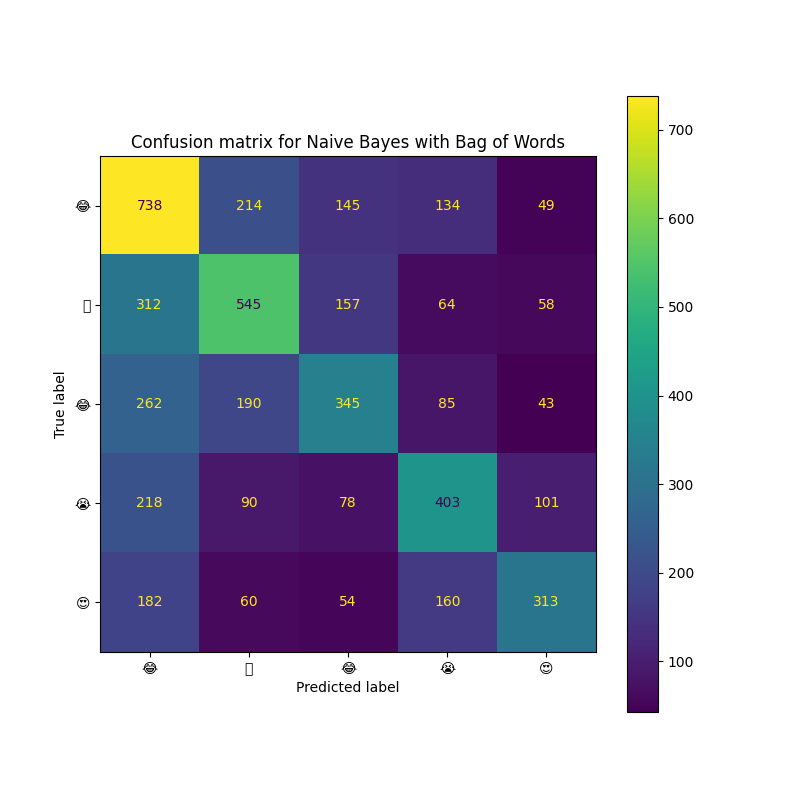
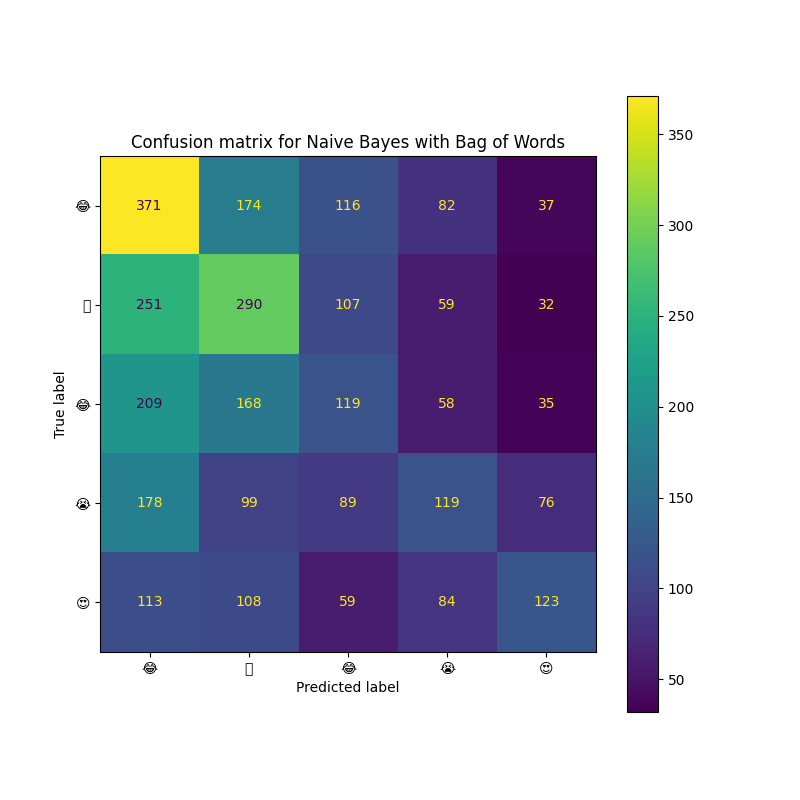
Added kNN with word2vec

diff --git a/data_processing/classifiers.py b/data_processing/classifiers.py
@@ -7,28 +7,34 @@ from sklearn.linear_model import LogisticRegression
 test_dataset_name = 'datasets/data/test_data_five_emojis.csv'
 
 bow_nb_model_filepath = 'classifier_models/demo/bow_nb.pkl'
+bow_nb_ngrams_model_filepath = 'classifier_models/demo/bow_nb_ngrams.pkl'
 bow_knn_model_filepath = 'classifier_models/demo/bow_knn.pkl'
 bow_random_forest_model_filepath = 'classifier_models/demo/bow_random_forest.pkl'
 bow_svm_model_filepath = 'classifier_models/demo/bow_svm.pkl'
+
 count_vectorizer_filepath = 'classifier_models/demo/count_vectorizer.pkl'
+count_vectorizer_ngrams_filepath = 'classifier_models/demo/count_vectorizer_ngrams.pkl'
 
 tfidf_nb_model_filepath = 'classifier_models/demo/tfidf_nb.pkl'
+tfidf_nb_ngrams_filepath = 'classifier_models/demo/tfidf_nb_ngrams.pkl'
 tfidf_knn_model_filepath = 'classifier_models/demo/tfidf_knn.pkl'
 tfidf_random_forest_model_filepath = 'classifier_models/demo/tfidf_random_forest.pkl'
 tfidf_svm_model_filepath = 'classifier_models/demo/tfidf_svm.pkl'
+
 tfidf_vectorizer_filepath = 'classifier_models/demo/tfidf_vectorizer.pkl'
+tfidf_vectorizer_ngrams_filepath = 'classifier_models/demo/tfidf_vectorizer_ngrams.pkl'
 
 word2vec_nb_model_filepath = 'classifier_models/demo/word2vec_nb.pkl'
 word2vec_lg_model_filepath = 'classifier_models/demo/word2vec_lg.pkl'
 word2vec_model_filepath = 'classifier_models/demo/word2vec.pkl'
 
 def train_bow_and_nb():
-    vectorizer = CountVectorizer()
+    vectorizer = CountVectorizer(ngram_range=(1,2))
     clf = processing_data.train_model_NB(vectorizer)
-    processing_data.save_trained_model(clf, bow_nb_model_filepath, vectorizer, count_vectorizer_filepath)
+    processing_data.save_trained_model(clf, bow_nb_ngrams_model_filepath, vectorizer, count_vectorizer_ngrams_filepath)
 
 def test_bow_and_nb():
-    model, vectorizer = processing_data.load_trained_model(bow_nb_model_filepath, count_vectorizer_filepath)
+    model, vectorizer = processing_data.load_trained_model(bow_nb_ngrams_model_filepath, count_vectorizer_ngrams_filepath)
     processing_data.calculate_accuracy(model, vectorizer, test_dataset_name)
 
 def test_bow_and_nb_cli(input: str):
@@ -38,12 +44,12 @@ def test_bow_and_nb_cli(input: str):
 
 
 def train_tfidf_and_nb():
-    vectorizer = TfidfVectorizer()
+    vectorizer = TfidfVectorizer(ngram_range=(1,2))
     clf = processing_data.train_model_NB(vectorizer)
-    processing_data.save_trained_model(clf, tfidf_nb_model_filepath, vectorizer, tfidf_vectorizer_filepath)
+    processing_data.save_trained_model(clf, tfidf_nb_ngrams_filepath, vectorizer, tfidf_vectorizer_ngrams_filepath)
 
 def test_tfidf_and_nb():
-    model, vectorizer = processing_data.load_trained_model(tfidf_nb_model_filepath, tfidf_vectorizer_filepath)
+    model, vectorizer = processing_data.load_trained_model(tfidf_nb_ngrams_filepath, tfidf_vectorizer_ngrams_filepath)
     processing_data.calculate_accuracy(model, vectorizer, test_dataset_name)
 
 def test_tfidf_and_nb_cli(input: str):
@@ -217,6 +223,7 @@ def tfidf_and_svm():
 # print()
 
 # train_word2vec_and_nb()
+# train_word2vec_and_knn()
 # test_word2vec_and_nb()
 
 # to make precision recall table uncomment
@@ -237,8 +244,12 @@ def tfidf_and_svm():
 
 # print("TFIDF nad Rforest")
 # test_tfidf_and_random_forest()
+<<<<<<< HEAD
 
 # train_word2vec_and_lg()
 # test_word2vec_and_lg()
 
 train_word2vec_and_lg()
+=======
+    
+>>>>>>> aee383b (Added kNN with word2vec)

diff --git a/data_processing/processing_data.py b/data_processing/processing_data.py
@@ -27,9 +27,11 @@ nltk.download('wordnet', quiet=True)
 from nltk.corpus import stopwords
 nltk.download('stopwords', quiet=True)
 
+all_dataset_name = 'datasets/data/tweets_with_five_emojis.csv'
 train_dataset_name = 'datasets/data/train_data_five_emojis.csv'
 dataset_name = 'datasets/data/tweets_with_five_emojis.csv'
 
+all_data_dictionary_filepath = 'datasets/in-progress-data/all-dictionary.dict'
 train_data_dictionary_filepath = 'datasets/in-progress-data/dictionary.dict'
 test_data_dictionary_filepath = 'datasets/in-progress-data/test-dictionary.dict'
 
@@ -147,7 +149,7 @@ def train_model_random_forest(vectorizer):
 
 
 def train_model_word2vec():
-    df = create_dataframe(dataset_name, train_data_dictionary_filepath)
+    df = create_dataframe(all_dataset_name, all_data_dictionary_filepath)
     nlp = [nltk.word_tokenize(i) for i in df['tweets']]
     model = gensim.models.Word2Vec(nlp, min_count=1, vector_size=100, window=5)
 
@@ -253,20 +255,11 @@ def save_confussion_matrix(target_values, predicted_values):
 
     # Display the plot
     cm_display.plot(ax=ax)
-    ax.set_title("Confusion matrix for Naive Bayes with Bag of Words")
+    ax.set_title("Confusion matrix for Naive Bayes with Bag of Words with n-grams")
     plt.show()
 
     # Save the plot
     fig.savefig("confusion_matrix.png")
-
-
-# def w2v_calculate_accuracy(clf: ClassifierMixin, w2v_model: gensim.Word2Vec, dataset_filename: str):
-#     df = create_dataframe(dataset_filename, test_data_dictionary_filepath)
-    # doc_term_df = test_data_vectorize(df, vectorizer=vectorizer)
-#     target_values = df.emojis.astype(int)
-
-#     predicted_emojis = clf.predict(doc_term_df)
-#     print("Accuracy: ", accuracy_score(target_values, predicted_emojis))
 
 
 def predict_emoji_cli(clf: ClassifierMixin, vectorizer, text: str):

diff --git a/data_processing/word2vec.py b/data_processing/word2vec.py
@@ -103,7 +103,6 @@ def max_cosine_similarity(input: str):
 # save_embedding()
 # max_cosine_similarity("I love you")
 
-
 # suggest_emoji_max_jaccard_similarity("I love you")
 # print()
 # suggest_emoji_average_jaccard_similarity("I love you")

diff --git a/results.md b/results.md
@@ -7,11 +7,17 @@
 |   Vectorizer  |  Classifier    |   Accuracy    |  Precision   |   Recall   |  F1-score   |    😭    |    😂     |   😤     |    🥹    |    😍    |
 | :-----------: | :-----------:  | :-----------: | :----------: | :--------: | :---------: | :------: | :------: | :------: | :------: | :------: |
 |  Bag of Words |  Naïve Bayes   |  47,82%       |  48,02%      |  45,78%    |  46,40%     |  49,33%  |  48,77%  |  40,49%  |  46,43%  |  46,96%  |
+|  Bag of Words |  Naïve Bayes with bigrams |  47,12% |  51,35% |  44,76%    |  45,68%     |  50,84%  |  50,73%  |  39,31%  |  44,38%  |  43,12%  |
 |  TF-IDF       |  Naïve Bayes   |  46,24%       |  48,59%      |  44,54%    |  45,27%     |  49,80%  |  49,87%  |  37,76%  |  44,07%  |  44,84%  |
+|  TF-IDF       |  Naïve Bayes with bigrams |  45,58% |  50,65% |  42,82%    |  43,50%     |  50,54%  |  48,85%  |  34,21%  |  41,61%  |  42,29%  |
+|  Word2Vec     |  Naïve Bayes   |  31,21%       |  35,93%      |  32,04%    |  30,22%     |  34,41%  |  21,72%  |  32,81%  |  24,04%  |  38,10%  |
 |  Bag of Words |  kNN (k=5)     |  31,56%       |  29,89%      |  30,44%    |  28,97%     |  36,49%  |  30,47%  |  16,06%  |  26,15%  |  35,67%  |
 |  TF-IDF       |  kNN (k=2)     |  30,68%       |  35,76%      |  25,75%    |  21,25%     |  27,83%  |  22,73%  |   8,91%  |  20,31%  |  26,46%  |
+|  Word2vec     |  kNN (k=5)     |  32,38%       |  32,42%      |  30,70%    |  30,74%     |  39,01%  |  36,75%  |  22,05%  |  24,71%  |  31,13%  |
 |  Bag of Words |  Random Forest |  27,72%       |  19,45%      |  23,15%    |  14,05%     |  41,84%  |  28,41%  |   0,00%  |   2,12%  |   1,08%  |
-|  TF-IDF       |  Random Forest |  29,00%       |  19.46%      |  23.04%    |  13.90%     |  41.78%  |  27.74%  |   0,00%  |   0,00%  |    0,00% |
+|  TF-IDF       |  Random Forest |  29,00%       |  19,46%      |  23,04%    |  13,90%     |  41.78%  |  27,74%  |   0,00%  |   0,00%  |   0,00%  |
+|  Word2Vec     |  Logistic Regression |  36,78% |  36,75%      |  35,35%    |  34,44%     |  42,50%  |  40,79%  |  19,02%  |  28,66%  |  41,20%  |
+
 
 
 ### Overall 100 000 tweets - 95 000 train and 5 000 test
